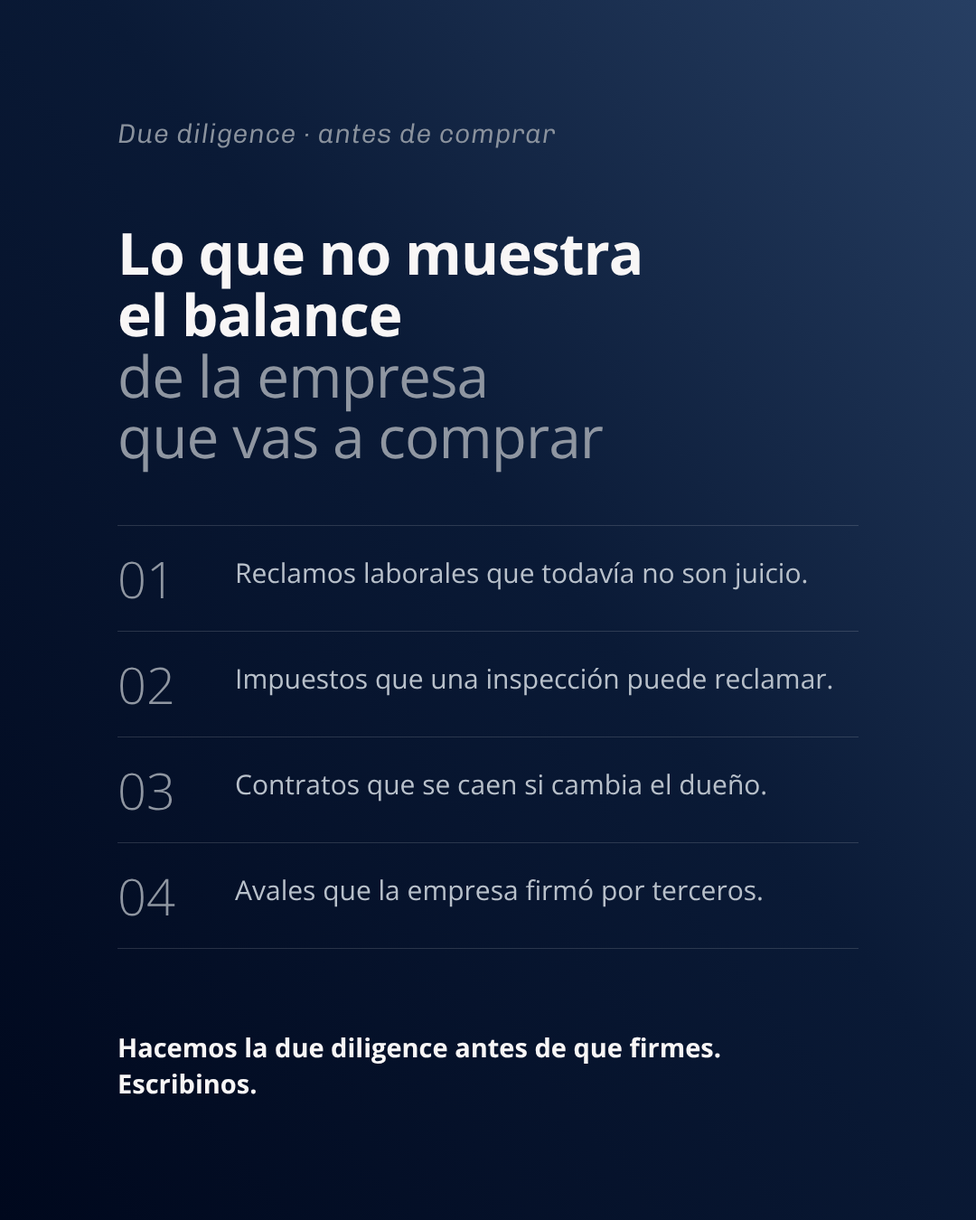
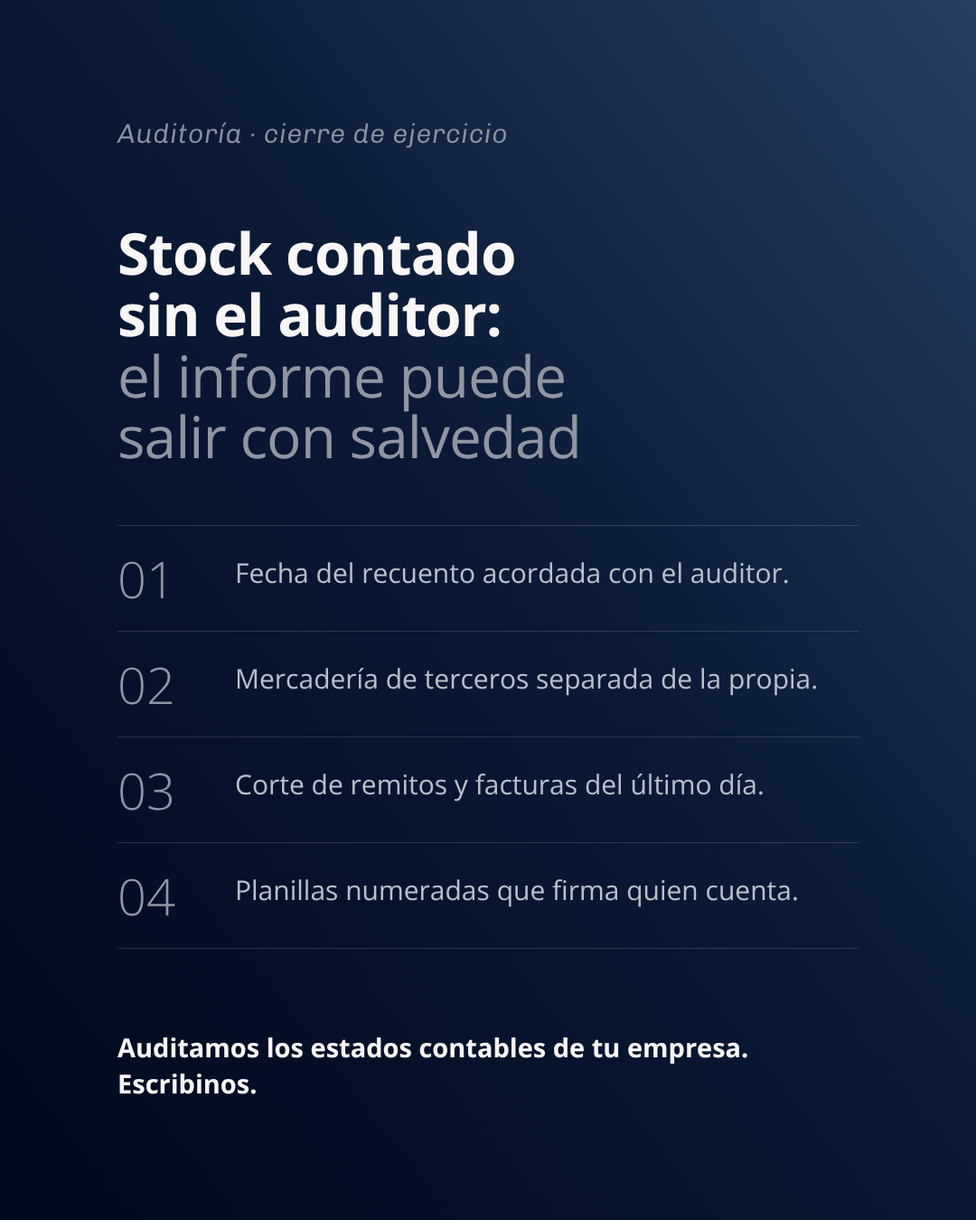
posts: viernes 06/11 rehecho con auditoría de estados contables (recuento de stock del cierre)
Juan rechazó el foco de la primera versión (due diligence antes de comprar una
empresa): «no proveo mucho servicio de compra venta de empresas, no está en el
core». El eje 5 de la rotación pasa a ser auditoría de estados contables, sin
compra-venta ni due diligence (skill, estrategia de contenido y lección nueva en
aprendizaje). Film nuevo de Motion: casilleros + papeles + íconos.

Claude-Session: https://claude.ai/code/session_01FGfc4dKpNkJfQ1eyX6aCLf

diff --git a/posts/2026-11-06-4-motion/shared.js b/posts/2026-11-06-4-motion/shared.js
@@ -1,51 +1,51 @@
-// Lo propio de este film: la foto del titular y el diagrama «la empresa que comprás» (la caja,
-// el balance y lo que queda fuera de él), que las escenas empresa, fuera y revisar arman igual
-// para que el paso de una a otra no se note. Cada escena le pone su prefijo a lo que anima.
+// Lo propio de este film: el titular (que «titulo» achica y sube, y «recuento» e «informe»
+// retoman como encabezado), los casilleros del depósito y el lugar vacío del auditor.
 Object.assign(window.MDO, {
-  DD: {
-    box: [80, 330, 880, 1150],
-    bal: [130, 440, 380, 330],
-    sep: 810,
-    cells: [[130, 905], [550, 905], [130, 1190], [550, 1190]],
-    items: [
-      ['equipo', 'Reclamos laborales que todavía no son juicio'],
-      ['buscar', 'Impuestos que una inspección puede reclamar'],
-      ['documento', 'Contratos que se caen si cambia el dueño'],
-      ['escudo', 'Avales que la empresa firmó por terceros'],
-    ],
+  ST: {
+    sube: -350, escala: 0.55,
+    grid: { x: 120, y: 760, w: 150, h: 120, gx: 22, gy: 22, cols: 5, rows: 4 },
+    falta: [120, 1340, 840, 150],
   },
-  ddIso(kit) {
-    return '<div class="dd-iso">' + MDO.logo(kit, 'iso', true) + '</div>';
+  stIso(kit) {
+    return '<div class="st-iso">' + MDO.logo(kit, 'iso', true) + '</div>';
   },
-  ddFoto(kit, p) {
-    return '<div class="dd-foto ' + p + '-f"><img class="dd-foto-img" src="' + kit.assets.url('edificios.jpg') + '"><div class="dd-velo"></div></div>';
+  stIcono(kit, nombre, px, clases, estilo) {
+    return MDO.icono(kit, nombre, px).replace('class="icono"', 'class="icono st-ic ' + clases + '" style="' + estilo + '"');
   },
-  ddIcono(kit, nombre, px, clases) {
-    return MDO.icono(kit, nombre, px).replace('class="icono"', 'class="icono dd-ic ' + clases + '"');
+  // El titular. Con `arriba`, ya chico y sin volanta: el encabezado de «recuento» e «informe».
+  stTitular(kit, p, arriba) {
+    const S = MDO.ST;
+    const tr = arriba ? 'transform:translateY(' + S.sube + 'px) scale(' + S.escala + ');' : '';
+    return '<div class="words st-tit ' + p + '-tit" style="left:150px;top:640px;width:820px;' + tr + '">' +
+      '<p class="st-vol ' + p + '-vol"' + (arriba ? ' style="opacity:0"' : '') + '>Cierre de ejercicio</p>' +
+      '<h1 class="line ' + p + '-a" style="font-size:92px">Stock contado sin el auditor:</h1>' +
+      '<h2 class="line line2 ' + p + '-b" style="font-size:92px">el informe puede salir con salvedad</h2></div>';
   },
-  ddDiagrama(kit, p) {
-    const D = MDO.DD, b = D.box, a = D.bal;
-    let cells = '';
-    D.items.forEach((it, i) => {
-      const c = D.cells[i];
-      cells += '<div class="dd-cell ' + p + '-c" style="left:' + c[0] + 'px;top:' + c[1] + 'px">' +
-        '<div class="dd-ic-wrap">' + MDO.ddIcono(kit, it[0], 100, p + '-i') + MDO.ddIcono(kit, 'tilde', 100, p + '-k') + '</div>' +
-        '<p class="dd-lbl ' + p + '-l">' + it[1] + '</p></div>';
-    });
-    return '<div class="dd ' + p + '-dd">' +
-      '<svg class="art" viewBox="0 0 1080 1920"><rect class="ink-dark dd-box ' + p + '-box" x="' + b[0] + '" y="' + b[1] + '" width="' + b[2] + '" height="' + b[3] + '"/>' +
-      '<line class="dd-sep ' + p + '-sep" x1="' + (b[0] + 50) + '" y1="' + D.sep + '" x2="' + (b[0] + b[2] - 50) + '" y2="' + D.sep + '"/></svg>' +
-      '<div class="words ' + p + '-tw" style="left:' + (b[0] + 50) + 'px;top:' + (b[1] + 34) + 'px;width:760px"><p class="dd-tag ' + p + '-t1">La empresa que comprás</p></div>' +
-      '<div class="paper dd-bal ' + p + '-bal" style="left:' + a[0] + 'px;top:' + a[1] + 'px;width:' + a[2] + 'px;height:' + a[3] + 'px">' +
-      '<p class="paper-hd" style="font-size:40px;letter-spacing:.12em">Balance</p>' +
-      '<div class="bar dd-bar ' + p + '-bar" style="width:100%"></div><div class="bar dd-bar ' + p + '-bar" style="width:78%"></div>' +
-      '<div class="bar dd-bar ' + p + '-bar" style="width:90%"></div><div class="bar dd-bar ' + p + '-bar" style="width:62%"></div></div>' +
-      '<div class="dd-okbal ' + p + '-okb">' + MDO.ddIcono(kit, 'tilde', 150, p + '-ok') + '</div>' +
-      '<div class="words ' + p + '-tw2" style="left:' + (b[0] + 50) + 'px;top:' + (D.sep + 24) + 'px;width:760px"><p class="dd-tag ' + p + '-t2">Fuera del balance</p></div>' +
-      cells + '</div>';
+  // Los casilleros del depósito, con su tilde, y el rótulo del recuento.
+  stGrid(kit, p) {
+    const G = MDO.ST.grid;
+    let boxes = '', checks = '';
+    for (let r = 0; r < G.rows; r++) {
+      for (let c = 0; c < G.cols; c++) {
+        const x = G.x + c * (G.w + G.gx), y = G.y + r * (G.h + G.gy), cx = x + G.w / 2, cy = y + G.h / 2;
+        boxes += '<div class="box st-box ' + p + '-bx" style="left:' + x + 'px;top:' + y + 'px;width:' + G.w + 'px;height:' + G.h + 'px"></div>';
+        checks += '<path class="ink-dark st-ck ' + p + '-ck" d="M' + (cx - 24) + ' ' + cy + ' L' + (cx - 7) + ' ' + (cy + 17) + ' L' + (cx + 25) + ' ' + (cy - 17) + '"/>';
+      }
+    }
+    return '<div class="' + p + '-grid" style="position:absolute;inset:0">' +
+      '<div class="words" style="left:120px;top:675px;width:840px"><p class="st-tag ' + p + '-tag">Recuento del cierre</p></div>' +
+      boxes + '<svg class="art" viewBox="0 0 1080 1920">' + checks + '</svg></div>';
+  },
+  // El lugar vacío del auditor, debajo de los casilleros.
+  stFalta(kit, p) {
+    const f = MDO.ST.falta;
+    return '<div class="' + p + '-falta" style="position:absolute;inset:0">' +
+      '<div class="st-falta" style="left:' + f[0] + 'px;top:' + f[1] + 'px;width:' + f[2] + 'px;height:' + f[3] + 'px"></div>' +
+      MDO.stIcono(kit, 'buscar', 96, p + '-lupa', 'left:' + (f[0] + 40) + 'px;top:' + (f[1] + 27) + 'px;opacity:.45') +
+      '<p class="st-txt ' + p + '-sin" style="left:' + (f[0] + 170) + 'px;top:' + (f[1] + 46) + 'px">Sin el auditor</p></div>';
   },
   // Dibuja un ícono trazo por trazo: devuelve p => … (de 0 a 1).
-  ddDibujo(svg) {
+  stDibujo(svg) {
     const els = [...svg.querySelectorAll('path,circle,rect,line')].map((e) => MDO.trazo(e));
     return (p) => els.forEach((f, i) => f(Math.max(0, Math.min(1, p * els.length - i))));
   },

diff --git a/posts/2026-11-06-4-motion/scene-revisar.js b/posts/2026-11-06-4-motion/scene-revisar.js
@@ -1,33 +1,33 @@
 const { seg, eo, eio, lerp, TextFx } = kit;
 kit.scene('revisar', {
   init(kit) {
-    kit.stage.append(kit.h('<div class="ground claro">' + MDO.ddIso(kit) +
-      '<div class="revisar-g" style="position:absolute;inset:0;transform-origin:540px 960px">' + MDO.ddDiagrama(kit, 'revisar') +
-      '<div class="words" style="left:130px;top:560px;width:800px"><h2 class="line revisar-h" style="font-size:76px">Revisaríamos todo esto antes de firmar.</h2></div></div></div>'));
-    const q = (s) => kit.stage.querySelector('.revisar-' + s);
-    this.g = q('g').style;
-    this.h = q('h');
-    // Arranca donde terminó «fuera»: todo a la vista.
-    MDO.trazo(q('box'))(1);
-    MDO.ddDibujo(q('ok'))(1);
-    const items = [...kit.stage.querySelectorAll('.revisar-i')];
-    items.forEach((e) => MDO.ddDibujo(e)(1));
-    this.is = items.map((e) => e.style);
-    this.ks = [...kit.stage.querySelectorAll('.revisar-k')].map((e) => MDO.ddDibujo(e));
-    // Lo que se va: el balance con su tilde, los rótulos y el separador.
-    this.arriba = ['bal', 'okb', 'tw', 'tw2'].map((s) => q(s).style);
-    this.sep = q('sep').style;
+    const items = [
+      ['reloj', 'Fecha acordada con el auditor'],
+      ['balanza', 'Mercadería de terceros, aparte'],
+      ['documento', 'Corte de remitos y facturas'],
+      ['calculadora', 'Planillas numeradas y firmadas'],
+    ];
+    let filas = '';
+    items.forEach((it, i) => {
+      const y = 660 + i * 190;
+      filas += MDO.stIcono(kit, it[0], 110, 'revisar-i', 'left:120px;top:' + y + 'px') +
+        '<div class="words" style="left:270px;top:' + (y + 24) + 'px;width:680px"><p class="st-lbl revisar-l">' + it[1] + '</p></div>';
+    });
+    kit.stage.append(kit.h('<div class="ground claro">' + MDO.stIso(kit) +
+      '<div class="revisar-g" style="position:absolute;inset:0;transform-origin:540px 960px">' +
+      '<div class="words" style="left:120px;top:380px;width:840px"><h2 class="line revisar-h" style="font-size:72px">Antes del recuento, revisaríamos:</h2></div>' +
+      filas + '</div></div>'));
+    this.g = kit.stage.querySelector('.revisar-g').style;
+    this.h = kit.stage.querySelector('.revisar-h');
+    this.ics = [...kit.stage.querySelectorAll('.revisar-i')].map((e) => MDO.stDibujo(e));
+    this.lbls = [...kit.stage.querySelectorAll('.revisar-l')];
   },
   render(t) {
-    const out = eo(seg(t, 0, 0.6));
-    this.arriba.forEach((s) => { s.opacity = 1 - out; s.transform = 'translateY(' + lerp(0, -30, out) + 'px)'; });
-    this.sep.opacity = 1 - out;
-    TextFx.fadeFromRight(this.h, t, 0.45, { stagger: 0.07 });
-    // Cada punto se tilda: el ícono se va y en su lugar se dibuja el tilde.
-    this.is.forEach((s, i) => { s.opacity = 1 - eo(seg(t, 1.4 + i * 0.35, 1.7 + i * 0.35)); });
-    this.ks.forEach((f, i) => f(eo(seg(t, 1.55 + i * 0.35, 2.1 + i * 0.35))));
-    const x = eio(seg(t, 3.45, 4.2));
+    TextFx.fadeFromRight(this.h, t, -0.15, { stagger: 0.07 });
+    this.ics.forEach((f, i) => f(eo(seg(t, 0.9 + i * 1.15, 1.7 + i * 1.15))));
+    this.lbls.forEach((el, i) => TextFx.fadeFromRight(el, t, 1.2 + i * 1.15, { stagger: 0.07, dur: 0.45, dx: 24 }));
+    const x = eio(seg(t, 5.8, 6.4));
     this.g.opacity = 1 - x;
-    this.g.transform = 'scale(' + lerp(1.012, 1.02, seg(t, 0, 3.45)) * lerp(1, 0.96, x) + ')';
+    this.g.transform = 'scale(' + lerp(1, 1.012, seg(t, 0, 5.8)) * lerp(1, 0.97, x) + ')';
   },
 });

diff --git a/posts/2026-11-06-4-motion/film.css b/posts/2026-11-06-4-motion/film.css
@@ -1,18 +1,14 @@
-/* Due diligence (viernes 06/11/2026): la foto del titular y el diagrama de la empresa. */
-.dd-iso { position:absolute; top:-120px; right:-380px; width:1836px; opacity:.05 }
-.dd-iso svg { display:block; width:100%; height:auto }
-.dd-foto { position:absolute; left:0; top:0; width:1080px; height:1920px; overflow:hidden }
-.dd-foto-img { position:absolute; left:0; top:0; width:100%; height:100%; object-fit:cover; object-position:72% 50%; transform-origin:60% 45% }
-.dd-velo { position:absolute; inset:0; background:linear-gradient(to top, color-mix(in srgb, var(--ground) 95%, transparent) 0%, color-mix(in srgb, var(--ground) 82%, transparent) 50%, color-mix(in srgb, var(--ground) 60%, transparent) 100%) }
-.dd { position:absolute; inset:0 }
-.dd-box { stroke-width:3px }
-.dd-sep { fill:none; stroke:color-mix(in srgb, var(--ground) 40%, transparent); stroke-width:3; stroke-dasharray:4 14; stroke-linecap:round; transform-box:fill-box; transform-origin:0 50% }
-.dd-tag { font-family:"Chivo-700", var(--mono, ui-monospace, monospace); font-weight:700; text-transform:uppercase; font-size:40px; letter-spacing:.12em; color:color-mix(in srgb, var(--ground) 72%, transparent) }
-.dd-bal { box-shadow:0 24px 50px color-mix(in srgb, var(--ground) 18%, transparent) }
-.dd-bar { transform-origin:0 50% }
-.dd-cell { position:absolute; width:370px }
-.dd-ic-wrap { position:relative; width:100px; height:100px; margin-bottom:14px; color:var(--tinta) }
-.dd-ic { position:absolute; left:0; top:0; stroke-width:1 }
-.dd-okbal { position:absolute; left:640px; top:530px; width:150px; height:150px; color:var(--tinta) }
-.dd-okbal .dd-ic { stroke-width:.8 }
-.dd-lbl { margin:0; font-size:40px; line-height:1.25; color:var(--tinta) }
+/* Recuento de stock al cierre (viernes 06/11/2026): casilleros, informe sellado e íconos. */
+.st-iso { position:absolute; top:-120px; right:-380px; width:1836px; opacity:.05 }
+.st-iso svg { display:block; width:100%; height:auto }
+.st-vol, .st-tag { font-family:"Chivo-700", var(--mono, ui-monospace, monospace); font-weight:700; text-transform:uppercase; font-size:40px; letter-spacing:.12em; color:color-mix(in srgb, var(--ground) 72%, transparent) }
+.st-tit { transform-origin:0 0 }
+.st-box { border-color:color-mix(in srgb, var(--ground) 30%, transparent); background:color-mix(in srgb, var(--second) 35%, transparent) }
+.st-ck { stroke-width:6 }
+.st-falta { position:absolute; box-sizing:border-box; border:3px dashed color-mix(in srgb, var(--ground) 45%, transparent) }
+.st-ic { position:absolute; color:var(--tinta); stroke-width:1 }
+.st-txt { position:absolute; margin:0; font-size:48px; line-height:1.2; color:var(--tinta) }
+.st-sello { position:absolute; box-sizing:border-box; border:6px solid var(--ground); padding:24px 40px; color:var(--ground); background:color-mix(in srgb, var(--second) 82%, transparent); transform-origin:50% 50% }
+.st-sello b { display:block; font-family:"Chivo-700", var(--mono, ui-monospace, monospace); font-weight:700; text-transform:uppercase; font-size:60px; letter-spacing:.08em; line-height:1.1; white-space:nowrap }
+.st-sello span { display:block; font-family:"Chivo-400", var(--mono, ui-monospace, monospace); text-transform:uppercase; font-size:40px; letter-spacing:.12em; margin-top:6px }
+.st-lbl { margin:0; font-size:46px; line-height:1.2; color:var(--tinta) }

diff --git a/posts/2026-11-06-4-motion/scene-titulo.js b/posts/2026-11-06-4-motion/scene-titulo.js
@@ -1,30 +1,20 @@
-const { seg, eo, ei, lerp, TextFx } = kit;
+const { seg, eo, ei, eio, lerp, TextFx } = kit;
 kit.scene('titulo', {
   init(kit) {
-    kit.stage.append(kit.h('<div class="ground">' + MDO.ddFoto(kit, 'titulo') +
-      '<div class="titulo-v" style="position:absolute;left:110px;top:610px;width:2px;height:560px;background:color-mix(in srgb, var(--second) 45%, transparent);transform-origin:50% 0"></div>' +
-      '<div class="words titulo-w" style="left:150px;top:640px;width:820px">' +
-      '<p class="vol titulo-vol" style="font-size:40px;letter-spacing:.16em">Due diligence</p>' +
-      '<h1 class="line titulo-a">Lo que no muestra el balance</h1>' +
-      '<h2 class="line line2 titulo-b">de la empresa que vas a comprar</h2></div></div>'));
+    kit.stage.append(kit.h('<div class="ground claro">' + MDO.stIso(kit) +
+      '<div class="titulo-v" style="position:absolute;left:110px;top:610px;width:2px;height:560px;background:color-mix(in srgb, var(--ground) 40%, transparent);transform-origin:50% 0"></div>' +
+      MDO.stTitular(kit, 'titulo', false) + '</div>'));
     const q = (s) => kit.stage.querySelector('.titulo-' + s);
     this.a = q('a'); this.b = q('b');
-    this.vol = q('vol').style; this.v = q('v').style; this.w = q('w').style;
-    this.img = kit.stage.querySelector('.titulo-f .dd-foto-img').style;
+    this.vol = q('vol').style; this.v = q('v').style; this.tit = q('tit').style;
   },
   render(t) {
-    if (t < 2.55) {
-      TextFx.fadeFromRight(this.a, t, -0.5, { stagger: 0.1, dur: 0.5, dx: 30 });
-      TextFx.fadeFromRight(this.b, t, 0.55, { stagger: 0.08, dur: 0.55, dx: 30 });
-    } else {
-      TextFx.fadeOutLeft(this.a, t, 2.55);
-      TextFx.fadeOutLeft(this.b, t, 2.65);
-    }
-    this.vol.opacity = eo(seg(t, -0.6, -0.1)) * (1 - ei(seg(t, 2.5, 2.9)));
-    this.v.transform = 'scaleY(' + eo(seg(t, -0.4, 1.1)) + ')';
-    this.v.opacity = 1 - ei(seg(t, 2.6, 3.0));
-    this.w.transform = 'translateY(' + lerp(0, -14, seg(t, 0, 2.6)) + 'px)';
-    // La foto respira: un 3 % en toda la escena (la escena siguiente sigue desde ahí).
-    this.img.transform = 'scale(' + lerp(1, 1.03, seg(t, -0.5, 3.4)) + ')';
+    TextFx.fadeFromRight(this.a, t, -0.5, { stagger: 0.1, dur: 0.5, dx: 30 });
+    TextFx.fadeFromRight(this.b, t, 0.5, { stagger: 0.08, dur: 0.55, dx: 30 });
+    this.vol.opacity = eo(seg(t, -0.6, -0.1)) * (1 - ei(seg(t, 2.6, 3.0)));
+    this.v.transform = 'scaleY(' + eo(seg(t, -0.4, 1.1)) * (1 - ei(seg(t, 2.6, 3.0))) + ')';
+    // El titular sube y se achica: queda de encabezado para el recuento.
+    const k = eio(seg(t, 2.65, 3.4));
+    this.tit.transform = 'translateY(' + lerp(0, MDO.ST.sube, k) + 'px) scale(' + lerp(1, MDO.ST.escala, k) + ')';
   },
 });

diff --git a/posts/2026-11-06-4-motion/scene-informe.js b/posts/2026-11-06-4-motion/scene-informe.js
@@ -1,0 +1,40 @@
+const { seg, eo, ei, eio, lerp, TextFx } = kit;
+kit.scene('informe', {
+  init(kit) {
+    let bars = '';
+    [100, 86, 94, 70, 90, 58].forEach((w) => { bars += '<div class="bar" style="width:' + w + '%"></div>'; });
+    kit.stage.append(kit.h('<div class="ground claro">' + MDO.stIso(kit) +
+      '<div class="informe-g" style="position:absolute;inset:0;transform-origin:540px 960px">' +
+      MDO.stTitular(kit, 'informe', true) +
+      '<div class="informe-fondo" style="position:absolute;inset:0">' + MDO.stGrid(kit, 'informe') + MDO.stFalta(kit, 'informe') + '</div>' +
+      '<div class="paper informe-p" style="left:160px;top:700px;width:760px;height:640px">' +
+      '<p class="paper-hd" style="font-size:40px;letter-spacing:.12em">Informe de auditoría</p>' + bars + '</div>' +
+      '<div class="st-sello informe-s" style="left:210px;top:1010px;width:660px"><b>Con salvedad</b><span>sobre el stock</span></div>' +
+      '</div></div>'));
+    const q = (s) => kit.stage.querySelector('.informe-' + s);
+    this.g = q('g').style;
+    this.fondo = q('fondo').style;
+    this.p = q('p').style;
+    this.s = q('s').style;
+    // Arranca donde terminó «recuento»: casilleros contados y el lugar vacío a la vista.
+    kit.stage.querySelectorAll('.informe-bx').forEach((e) => {
+      e.style.background = 'color-mix(in srgb, var(--ground) 12%, color-mix(in srgb, var(--second) 35%, transparent))';
+      e.style.borderColor = 'color-mix(in srgb, var(--ground) 75%, transparent)';
+    });
+    kit.stage.querySelectorAll('.informe-ck').forEach((e) => MDO.trazo(e)(1));
+    MDO.stDibujo(q('lupa'))(1);
+  },
+  render(t) {
+    this.fondo.opacity = 1 - 0.85 * eo(seg(t, 0, 0.6));
+    const pp = eio(seg(t, 0.2, 1.0));
+    this.p.opacity = eo(seg(t, 0.2, 0.7));
+    this.p.transform = 'translateY(' + lerp(420, 0, pp) + 'px)';
+    // El sello cae sobre el informe: se achica hasta su lugar, sin rebote.
+    const ks = eo(seg(t, 1.6, 2.1));
+    this.s.opacity = ks;
+    this.s.transform = 'rotate(-4deg) scale(' + lerp(1.18, 1, ks) + ')';
+    const x = eio(seg(t, 3.9, 4.6));
+    this.g.opacity = 1 - x;
+    this.g.transform = 'scale(' + lerp(1, 1.015, seg(t, 0, 3.9)) * lerp(1, 0.97, x) + ')';
+  },
+});

diff --git a/posts/2026-11-06-4-motion/scene-recuento.js b/posts/2026-11-06-4-motion/scene-recuento.js
@@ -1,0 +1,29 @@
+const { seg, eo, ei, lerp, TextFx } = kit;
+kit.scene('recuento', {
+  init(kit) {
+    kit.stage.append(kit.h('<div class="ground claro">' + MDO.stIso(kit) + MDO.stTitular(kit, 'recuento', true) +
+      MDO.stGrid(kit, 'recuento') + MDO.stFalta(kit, 'recuento') + '</div>'));
+    const q = (s) => kit.stage.querySelector('.recuento-' + s);
+    this.tag = q('tag');
+    this.bx = [...kit.stage.querySelectorAll('.recuento-bx')].map((e) => e.style);
+    this.ck = [...kit.stage.querySelectorAll('.recuento-ck')].map((e) => MDO.trazo(e));
+    this.falta = q('falta').style;
+    this.lupa = MDO.stDibujo(q('lupa'));
+    this.sin = q('sin');
+  },
+  render(t) {
+    TextFx.fadeFromRight(this.tag, t, 0.05, { stagger: 0.08 });
+    // Los casilleros aparecen y se cuentan de a uno, fila por fila.
+    this.bx.forEach((s, i) => {
+      s.opacity = eo(seg(t, 0.1 + i * 0.025, 0.5 + i * 0.025));
+      const c = eo(seg(t, 0.9 + i * 0.12, 1.15 + i * 0.12));
+      s.background = 'color-mix(in srgb, var(--ground) ' + (c * 12).toFixed(1) + '%, color-mix(in srgb, var(--second) 35%, transparent))';
+      s.borderColor = 'color-mix(in srgb, var(--ground) ' + (30 + c * 45).toFixed(1) + '%, transparent)';
+    });
+    this.ck.forEach((f, i) => f(eo(seg(t, 0.95 + i * 0.12, 1.25 + i * 0.12))));
+    // Abajo, el lugar del auditor queda vacío.
+    this.falta.opacity = eo(seg(t, 3.7, 4.2));
+    this.lupa(eo(seg(t, 3.9, 4.6)));
+    TextFx.fadeFromRight(this.sin, t, 4.3, { stagger: 0.09 });
+  },
+});

diff --git a/posts/2026-11-06-4-motion/scene-firma.js b/posts/2026-11-06-4-motion/scene-firma.js
@@ -1,11 +1,11 @@
 const { seg, eo, lerp, TextFx } = kit;
 kit.scene('firma', {
   init(kit) {
-    kit.stage.append(kit.h('<div class="ground claro">' + MDO.ddIso(kit) +
+    kit.stage.append(kit.h('<div class="ground claro">' + MDO.stIso(kit) +
       '<div class="firma-g" style="position:absolute;left:0;top:0;width:1080px;height:1920px;transform-origin:540px 930px">' +
       '<div class="firma-l" style="position:absolute;left:230px;top:770px;width:620px;transform-origin:50% 50%">' + MDO.logo(kit, 'principal', true) + '</div>' +
       '<div class="words" style="left:140px;top:1090px;width:800px;align-items:center;text-align:center">' +
-      '<p class="vol firma-s" style="font-size:40px;letter-spacing:.16em;color:color-mix(in srgb, var(--ground) 72%, transparent)">Due diligence</p></div>' +
+      '<p class="st-vol firma-s">Auditoría de empresas</p></div>' +
       '<div class="firma-u" style="position:absolute;left:470px;top:1162px;width:140px;height:4px;background:var(--main)"></div></div></div>'));
     const q = (s) => kit.stage.querySelector('.firma-' + s);
     this.g = q('g').style;

diff --git a/.claude/skills/mdo-rutina-semanal/CONTEXTO-PUBLICIDAD.md b/.claude/skills/mdo-rutina-semanal/CONTEXTO-PUBLICIDAD.md
@@ -80,7 +80,7 @@ Por orden de peso comercial:
 | **Ingresos Brutos** (campaña Meta al aire) | Retenciones y percepciones que superan el impuesto, saldo a favor que inmoviliza capital de trabajo, jurisdicciones donde corresponde o no estar inscripto, Convenio Multilateral y coeficientes, exclusiones y certificados de no retención | `/servicios/analisis-ingresos-brutos` |
 | **IVA, MiPyME y planificación** (campaña Meta al aire) | IVA diferido, cheque a cuenta de Ganancias, saldos de IVA, anticipos calculados sobre un año que ya no existe, planificación fiscal antes de decidir | `/servicios/certificado-mipyme` · `/servicios/impuestos-nacionales` |
 | **Sociedades** (Google) | Obligaciones ante IGJ y ARCA (actas, balances, autoridades, beneficiario final, domicilio electrónico), constitución y tipo de sociedad (SA, SRL, SAS), reformas, aumentos de capital | `/servicios/societario-igj` |
-| **Auditoría y due diligence** (Google) | Cuando el banco, un socio nuevo, un comprador o un inversor piden los números; certificación vs. auditoría; due diligence antes de comprar o invertir | `/servicios/auditoria-de-empresas` · `/servicios/fusiones-adquisiciones-reorganizaciones` |
+| **Auditoría de estados contables** (Google) | Cuando el banco, un socio nuevo o un proveedor grande piden los números; certificación vs. auditoría; el cierre del ejercicio (recuento de stock, confirmaciones); control interno. ❌ No compra-venta de empresas ni due diligence: Juan, 02/11/2026, «no proveo mucho servicio de compra venta de empresas, no está en el core» | `/servicios/auditoria-de-empresas` |
 | **Empleadores** (buen orgánico) | Cambios que afectan la liquidación de sueldos, convenios, cargas sociales, inspecciones laborales, altas | `/servicios/liquidacion-de-sueldos` |
 | **Contabilidad y back office** | Balances para decidir, outsourcing administrativo-contable (cuentas a pagar y cobrar, conciliaciones, tesorería, reporting) | `/servicios/contabilidad-pymes` · `/servicios/outsourcing-administrativo` |
 | Nichos (de vez en cuando, si hay noticia) | Comercio exterior, impuestos internacionales, precios de transferencia, representación de empresas extranjeras, prevención de lavado, tasas municipales, certificaciones | su página, ver la sección 5 |
@@ -132,7 +132,7 @@ Fuente: la web (`src/data/services.ts`). Son los **únicos** servicios que se no
 | Auditoría | Auditoría de Empresas (estados contables, NIIF, auditoría interna y operativa, control interno, revisiones limitadas, certificaciones, pericias, valuación) | `auditoria-de-empresas` |
 | Auditoría | Pymes (auditoría, outsourcing contable y fiscal, reporting, start-ups) | `pymes` |
 | Consultoría | Asesoramiento Estratégico y Financiero (presupuestos, control de gestión) | `asesoramiento-estrategico-financiero` |
-| Consultoría | Fusiones, Adquisiciones y Reorganizaciones (y due diligence) | `fusiones-adquisiciones-reorganizaciones` |
+| Consultoría | Fusiones, Adquisiciones y Reorganizaciones (y due diligence). Está en la web, pero no es un servicio central: no se elige como tema de un post (Juan, 02/11/2026) | `fusiones-adquisiciones-reorganizaciones` |
 | Consultoría | Servicios Societarios (SA, SRL, SAS, IGJ, actas, reformas, aumentos de capital, contratos) | `societario-igj` |
 | Consultoría | Representación de Empresas Extranjeras | `representacion-empresas-extranjeras` |
 | Consultoría | Prevención de Lavado de Activos (sujetos obligados) | `prevencion-lavado-activos` |

diff --git a/.claude/skills/mdo-rutina-semanal/SKILL.md b/.claude/skills/mdo-rutina-semanal/SKILL.md
@@ -81,7 +81,7 @@ Al elegir plantilla dentro de cada pool, **preferir la variante cuyo fondo coinc
 - **Todo para empresas**, con un problema de plata o de riesgo concreto en la primera línea, contado por el estudio que lo resuelve. Nunca tutoriales de "hacelo vos".
 - **Nunca invitar a llamar** (WhatsApp, correo o web; ❌ 📞). Datos en condicional; Ingresos Brutos es "el fisco".
 - **Cada post cierra con la página de su servicio** (tabla de la sección 5 del archivo).
-- **Ejes, por peso comercial**: Ingresos Brutos · IVA/MiPyME/planificación · Sociedades · Auditoría y due diligence · Empleadores · Contabilidad y back office. Mientras duren las campañas de Meta (hasta el 24/10/2026), primero los dos de impuestos.
+- **Ejes, por peso comercial**: Ingresos Brutos · IVA/MiPyME/planificación · Sociedades · Auditoría de estados contables · Empleadores · Contabilidad y back office. Mientras duren las campañas de Meta (hasta el 24/10/2026), primero los dos de impuestos.
 
 ⚠ **REGLA DURA — ARCA, nunca AFIP**: el organismo recaudador hoy se llama **ARCA** (Agencia de Recaudación y Control Aduanero). Usar SIEMPRE "ARCA" en títulos, copys, imágenes y hashtags. ❌ Nunca escribir "AFIP", aunque la fuente lo diga — traducirlo a "ARCA".
 
@@ -448,7 +448,7 @@ SERVICIO_IDX=$(( ($(date +%V) + 2) % 6 ))
 # 2 = Societario
 # 3 = Impuestos · IVA, MiPyME y planificación
 # 4 = Laboral (empleadores)
-# 5 = Auditoría y due diligence
+# 5 = Auditoría de estados contables
 ```
 
 El post y el CTA giran en torno al eje de la semana. El **ángulo y la redacción son libres** (ver la regla de creatividad), pero el eje queda fijado por el cálculo y el tema tiene que ser un servicio real de la web (tabla de la sección 5 de `CONTEXTO-PUBLICIDAD.md`).
@@ -460,7 +460,7 @@ El post y el CTA giran en torno al eje de la semana. El **ángulo y la redacció
 | 2 | Societario | Sociedad al día ante IGJ (actas, autoridades, balances), elegir SA/SRL/SAS, socios que entran o salen | "Ponemos al día tu sociedad. Escribinos." → `/servicios/societario-igj` |
 | 3 | IVA, MiPyME y planificación | Diferir el IVA con el Certificado MiPyME, cheque a cuenta de Ganancias, anticipos sobre un año que ya no existe, decidir con el impacto fiscal a la vista | "Revisamos si tu empresa aprovecha los beneficios que le corresponden. Escribinos." → `/servicios/certificado-mipyme` o `/servicios/impuestos-nacionales` |
 | 4 | Laboral (empleadores) | Costo real de un empleado, convenio que aplica, inspecciones, altas y bajas | "Liquidamos los sueldos de tu empresa. Escribinos." → `/servicios/liquidacion-de-sueldos` |
-| 5 | Auditoría y due diligence | Cuando el banco, un socio o un comprador piden los números; certificar vs. auditar; due diligence antes de comprar | "Auditamos los estados contables de tu empresa. Escribinos." → `/servicios/auditoria-de-empresas` o `/servicios/fusiones-adquisiciones-reorganizaciones` |
+| 5 | Auditoría de estados contables | Cuando el banco, un socio o un proveedor grande piden los números; certificar vs. auditar; el cierre del ejercicio (recuento de stock, confirmaciones, ajustes); control interno. ❌ Nada de compra-venta de empresas ni due diligence: no es un servicio central del estudio (Juan, 02/11/2026) | "Auditamos los estados contables de tu empresa. Escribinos." → `/servicios/auditoria-de-empresas` |
 
 > Hasta el 25/09/2026 la rotación era `% 5` sobre Contabilidad, Tributario, Laboral, Societario y Auditoría.
 
